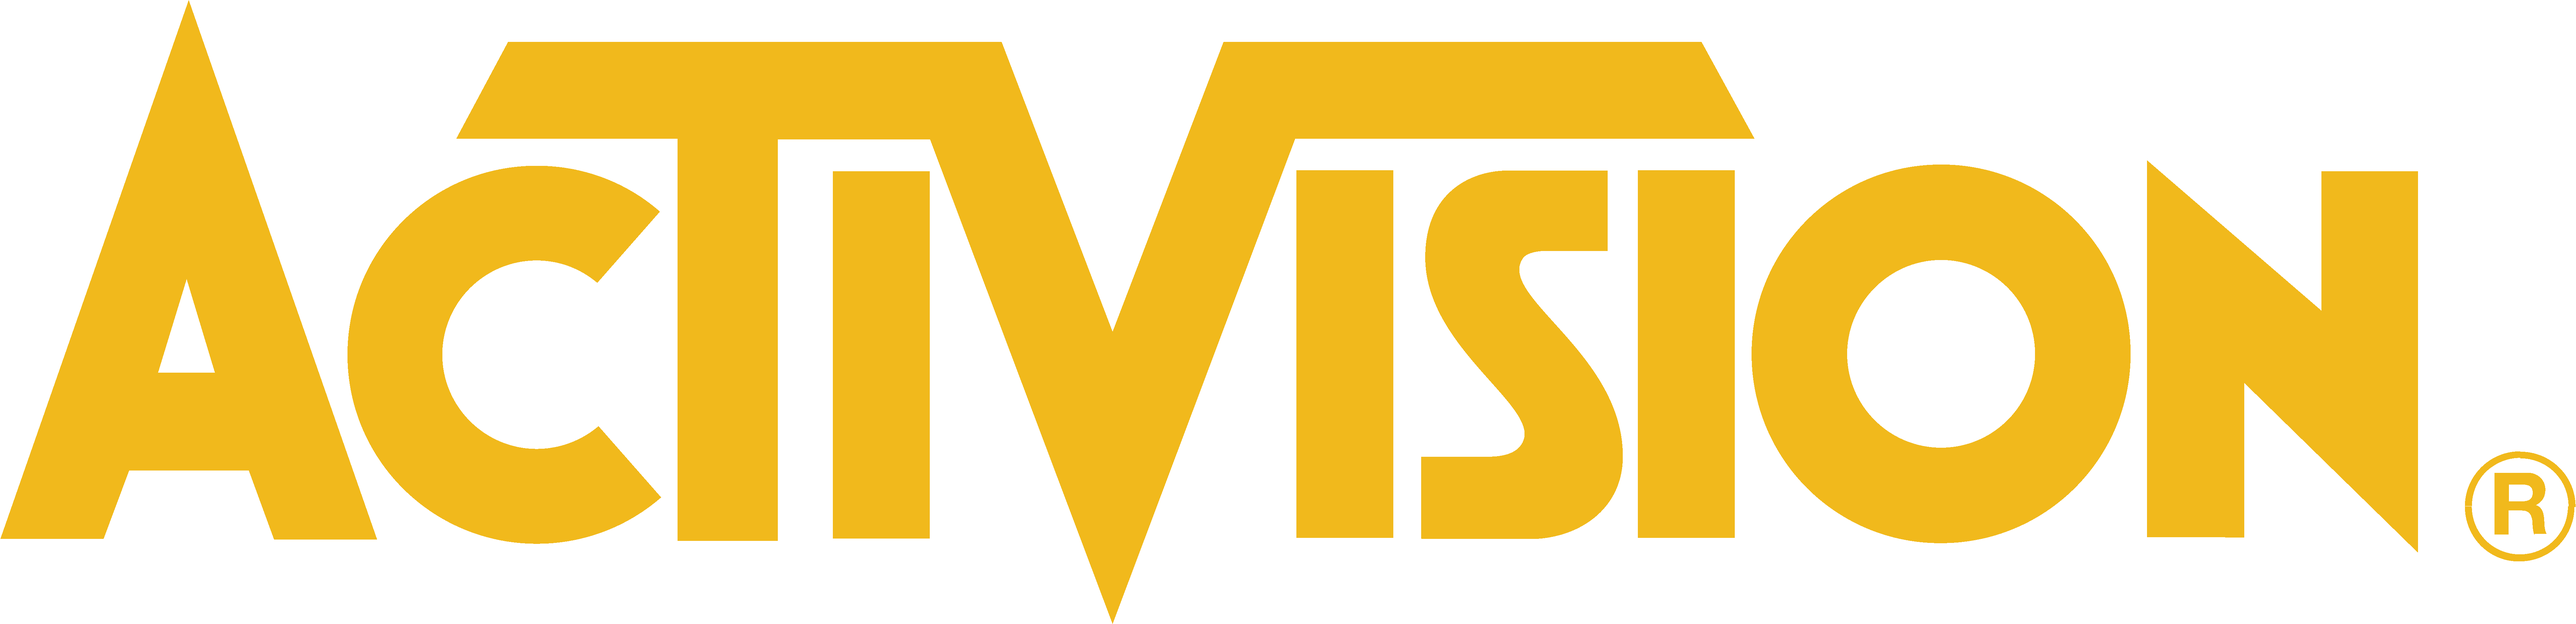
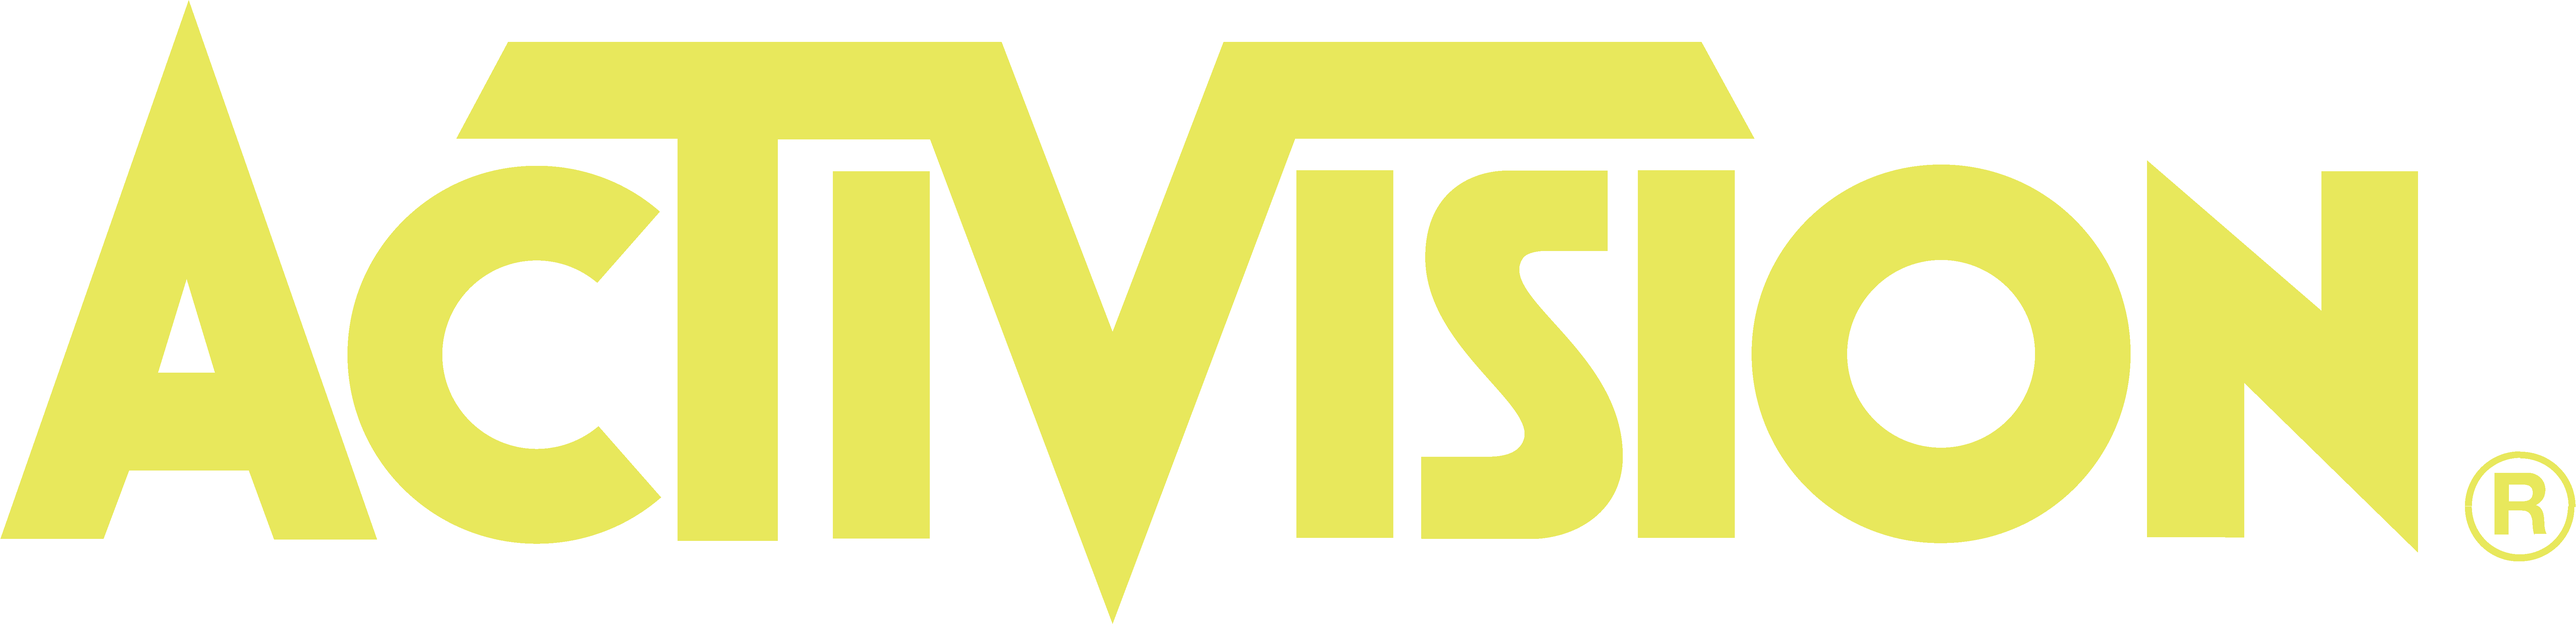
Engine - Add camera, Game - Add plane object and player abstraction

diff --git a/src/ts/Game.ts b/src/ts/Game.ts
@@ -1,13 +1,20 @@
+import Assets from "./core/Assets";
 import Canvas from "./core/Canvas";
 import Scene from "./core/Scene";
 import Vector2 from "./core/Vector2";
 import GameInfo from "./groups/GameInfo";
+import ImageObject from "./objects/ImageObject";
+import Plane from "./objects/Plane";
 import Rectangle from "./objects/Rectangle";
+import Player from "./Player";
 
 export default class Game {
   private scene: Scene;
-  private gameInfoHeight: number = 250;
+  private player: Player;
+
   private gameInfo: GameInfo;
+  private gameInfoHeight: number = 250;
+  private cameraOffset: number = Canvas.height - this.gameInfoHeight;
 
   private score: number = 0;
   private numberOfLives: number = 3;
@@ -20,15 +27,18 @@ export default class Game {
   private init(): void {
     this.addBackground();
     this.addGameInfo();
+    this.addPlayer();
   }
 
   private addBackground(): void {
-    const background = new Rectangle(Canvas.width, Canvas.height, '#666');
+    const background = new Rectangle(Canvas.width, Canvas.height, '#900');
+    background.isFixed = true;
     this.scene.add(background);
   }
 
   private addGameInfo(): void {
     this.gameInfo = new GameInfo(this.gameInfoHeight);
+    this.gameInfo.isFixed = true;
     this.gameInfo.position.set(0, Canvas.height - this.gameInfoHeight);
     this.gameInfo.setScore(this.score);
     this.gameInfo.setNumberOfLives(this.numberOfLives);
@@ -36,7 +46,20 @@ export default class Game {
     this.scene.add(this.gameInfo);
   }
 
-  public render = (delta: number): void => {
+  private addPlayer(): void {
+    const plane = new Plane(80, 80);
+    this.cameraOffset -= 80;
+    this.player = new Player(0.05, plane);
+    this.scene.add(this.player.object);
+  }
 
+  public render = (delta: number): void => {
+    const playerPosition = this.player.getPosition();
+    playerPosition.add(this.player.velocity * delta, this.player.velocity * delta);
+
+    this.player.setPosition(playerPosition);
+
+    // follow the player on y axis
+    this.scene.camera.position.set(0, this.player.getPosition().y - this.cameraOffset);
   }
 }

diff --git a/src/ts/groups/GameInfo.ts b/src/ts/groups/GameInfo.ts
@@ -15,6 +15,7 @@ export default class GameInfo extends CanvasGroup {
   private logoHeight: number = 62;
   private fuelIndicatorWidth: number = 350;
   private fuelIndicatorHeight: number = 80;
+  private textColor: string = 'rgb(232 232 92)';
   
   public fuelIndicator: FuelIndicator;
   private scoreText: Text;
@@ -37,13 +38,13 @@ export default class GameInfo extends CanvasGroup {
   }
 
   private addElements(): void {
-    const background = new Rectangle(Canvas.width, this.height, '#5b5866');
-    const line = new Line(new Vector2(Canvas.width), 3);
-    const logo = new ImageObject(Assets.images.activision, this.logoWidth, this.logoHeight);
+    const background = new Rectangle(Canvas.width, this.height, 'rgb(144, 144, 144)');
+    const line = new Line(new Vector2(Canvas.width), 5);
+    const logo = new ImageObject(Assets.images.activision, 0, 0, 7680, 1862, this.logoWidth, this.logoHeight);
 
-    this.scoreText = new Text('', '#f1b91c', 'bold 80px arial', 'top', 'right');
+    this.scoreText = new Text('', this.textColor, 'bold 80px arial', 'top', 'right');
     this.fuelIndicator = new FuelIndicator(this.fuelIndicatorWidth, this.fuelIndicatorHeight);
-    this.numberOfLivesText = new Text('', '#f1b91c', 'bold 80px arial', 'bottom', 'right');
+    this.numberOfLivesText = new Text('', this.textColor, 'bold 80px arial', 'bottom', 'right');
 
     logo.position.set(Canvas.width / 2 + this.fuelIndicatorWidth / 2 - this.logoWidth, this.height - this.logoHeight - 10);
     this.scoreText.position.set(Canvas.width / 2 + this.fuelIndicatorWidth / 2, 5);

diff --git a/src/ts/core/Scene.ts b/src/ts/core/Scene.ts
@@ -1,3 +1,4 @@
+import Camera from "./Camera";
 import Canvas from "./Canvas";
 import CanvasGroup from "./CanvasGroup";
 import CanvasObject from "./CanvasObject";
@@ -7,6 +8,11 @@ import Vector2 from "./Vector2";
 
 export default class Scene {
   private elements: CanvasElement[] = [];
+  public camera: Camera;
+
+  public constructor(camera: Camera) {
+    this.camera = camera;
+  }
 
   public add(object: CanvasObject | CanvasGroup): void {
     this.elements.push(object);
@@ -24,12 +30,16 @@ export default class Scene {
       if (element.type == CanvasType.Object) {
         const object = element as CanvasObject;
         object.realPosition.copy(object.position);
+        if (!object.isFixed)
+          object.realPosition.set(object.realPosition.x - this.camera.position.x, object.realPosition.y - this.camera.position.y);
         this.drawObject(object);
         continue;
       }
 
       const group = element as CanvasGroup;
       group.realPosition.copy(group.position);
+      if (!group.isFixed)
+        group.realPosition.set(group.realPosition.x - this.camera.position.x, group.realPosition.y - this.camera.position.y);
       this.drawGroup(group);
     }
   }

diff --git a/src/ts/objects/ImageObject.ts b/src/ts/objects/ImageObject.ts
@@ -3,18 +3,26 @@ import CanvasObject from "../core/CanvasObject";
 
 export default class ImageObject extends CanvasObject {
   public image: HTMLImageElement;
+  public spriteX: number;
+  public spriteY: number;
+  public spriteWidth: number;
+  public spriteHeight: number;
   public width: number;
   public height: number;
 
-  public constructor(image: HTMLImageElement, width: number, height: number) {
+  public constructor(image: HTMLImageElement, spriteX: number, spriteY: number, spriteWidth: number, spriteHeight: number, width: number, height: number) {
     super();
 
     this.image = image;
     this.width = width;
     this.height = height;
+    this.spriteX = spriteX;
+    this.spriteY = spriteY;
+    this.spriteWidth = spriteWidth;
+    this.spriteHeight = spriteHeight;
   }
 
   public draw(): void {
-    Canvas.ctx.drawImage(this.image, this.realPosition.x, this.realPosition.y, this.width, this.height);
+    Canvas.ctx.drawImage(this.image, this.spriteX, this.spriteY, this.spriteWidth, this.spriteHeight, this.realPosition.x, this.realPosition.y, this.width, this.height);
   }
 }

diff --git a/src/ts/App.ts b/src/ts/App.ts
@@ -1,4 +1,5 @@
 import Assets from "./core/Assets";
+import Camera from "./core/Camera";
 import Canvas from "./core/Canvas";
 import Renderer from "./core/Renderer";
 import Scene from "./core/Scene";
@@ -6,6 +7,7 @@ import Game from "./Game";
 
 export default class App {
   private game: Game;
+  private gameCamera: Camera;
   private gameScene: Scene;
   private gameRenderer: Renderer;
   private canvasWidth: number = 2000;
@@ -19,7 +21,8 @@ export default class App {
     await Assets.loadImages();
     
     Canvas.create(this.canvasWidth, this.canvasHeight);
-    this.gameScene = new Scene();
+    this.gameCamera = new Camera();
+    this.gameScene = new Scene(this.gameCamera);
     this.game = new Game(this.gameScene);
     this.gameRenderer = new Renderer(this.gameScene, this.game.render);
     this.gameRenderer.startRendering();

diff --git a/src/ts/Player.ts b/src/ts/Player.ts
@@ -1,0 +1,27 @@
+import Vector2 from "./core/Vector2";
+import ImageObject from "./objects/ImageObject";
+
+export default class Player {
+  private position: Vector2 = new Vector2();
+  public velocity: number;
+  public object: ImageObject;
+
+  public constructor(velocity: number, object: ImageObject) {
+    this.velocity = velocity;
+    this.object = object;
+    this.alignObjectPosition();
+  }
+
+  public setPosition(vector2: Vector2): void {
+    this.position.set(vector2.x, vector2.y);
+    this.alignObjectPosition();
+  }
+
+  public getPosition(): Vector2 {
+    return this.position;
+  }
+
+  private alignObjectPosition(): void {
+    this.object.position.set(this.position.x - this.object.width / 2, this.position.y - this.object.height / 2)
+  }
+}

diff --git a/src/ts/groups/FuelIndicator.ts b/src/ts/groups/FuelIndicator.ts
@@ -20,7 +20,7 @@ export default class FuelIndicator extends CanvasGroup {
   private halfLineWidth: number = 10;
   private handWidth: number = this.thresholdWidth;
   private handHeight: number;
-  private handColor: string = '#f2ba1d';
+  private handColor: string = 'rgb(252 252 104)';
 
   public constructor(width: number, height: number) {
     super();

diff --git a/src/ts/core/Camera.ts b/src/ts/core/Camera.ts
@@ -1,0 +1,13 @@
+import Vector2 from "./Vector2"
+
+export default class Camera {
+  public width: number;
+  public height: number;
+  public position: Vector2;
+
+  public constructor(width: number = 100, height: number = 100, position: Vector2 = new Vector2()) {
+    this.width = width;
+    this.height = height;
+    this.position = position;
+  }
+}

diff --git a/src/ts/core/Assets.ts b/src/ts/core/Assets.ts
@@ -5,6 +5,7 @@ export default class Assets {
   public static images: LoadedImages = {};
   private static paths: imagesToLoad = {
     activision: new URL('../../assets/activision.png', import.meta.url).pathname,
+    sprite: new URL('../../assets/sprite.png', import.meta.url).pathname,
   };
 
   public static async loadImages(): Promise<void> {

diff --git a/src/ts/core/CanvasObject.ts b/src/ts/core/CanvasObject.ts
@@ -13,6 +13,7 @@ const idGenerator = id();
 
 export default abstract class CanvasObject {
   private id: number = idGenerator.next().value;
+  public isFixed: boolean = false;
   public realPosition: Vector2 = new Vector2(0, 0);
   public type: CanvasType = CanvasType.Object;
   public position: Vector2 = new Vector2(0, 0);

diff --git a/src/ts/core/CanvasGroup.ts b/src/ts/core/CanvasGroup.ts
@@ -14,6 +14,7 @@ const idGenerator = id();
 
 export default class CanvasGroup {
   private id: number = idGenerator.next().value;
+  public isFixed: boolean = false;
   public realPosition: Vector2 = new Vector2(0, 0);
   public type: CanvasType = CanvasType.Group;
   public position: Vector2 = new Vector2(0, 0);

diff --git a/src/ts/objects/Plane.ts b/src/ts/objects/Plane.ts
@@ -1,0 +1,8 @@
+import Assets from "../core/Assets";
+import ImageObject from "./ImageObject";
+
+export default class Plane extends ImageObject {
+  public constructor(width: number, height: number) {
+    super(Assets.images.sprite, 26, 17, 14, 14, width, height);
+  }
+}
